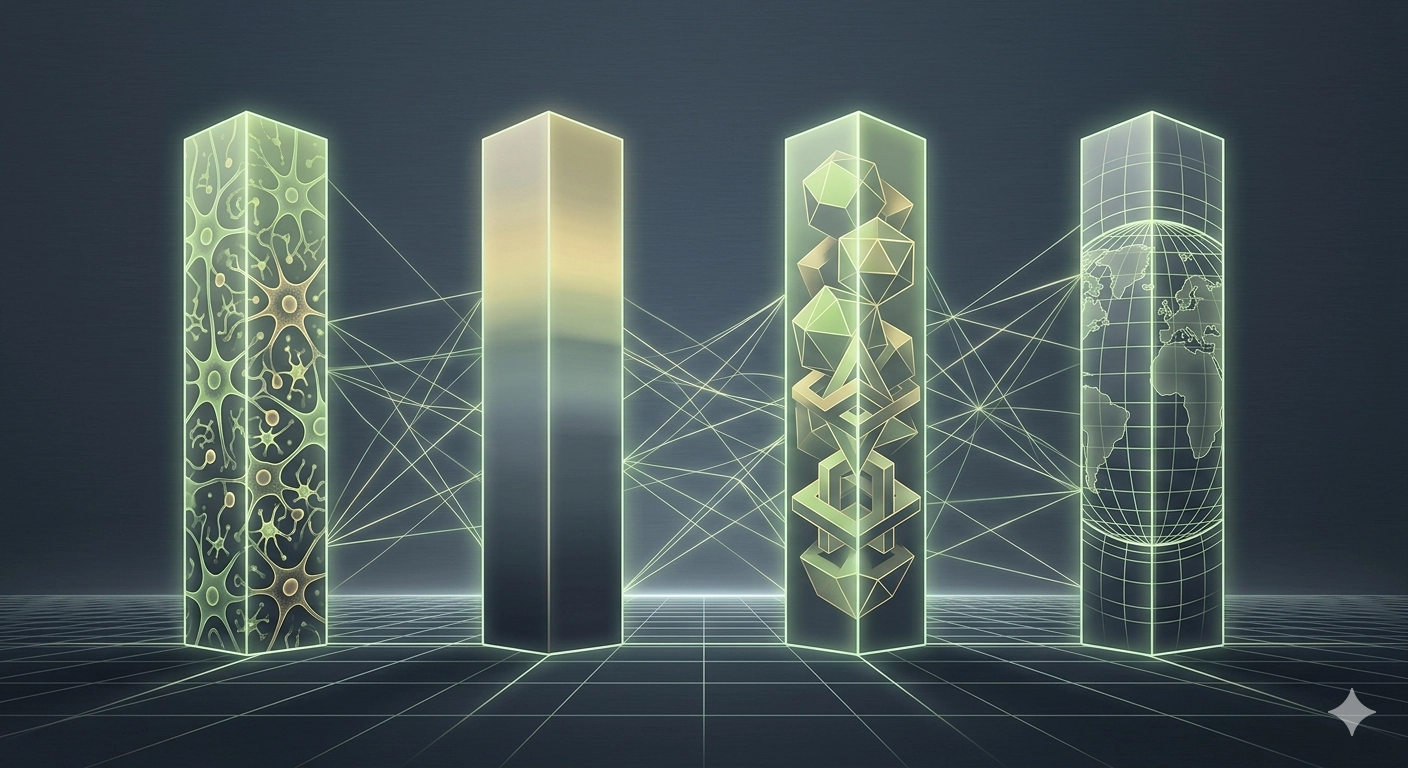
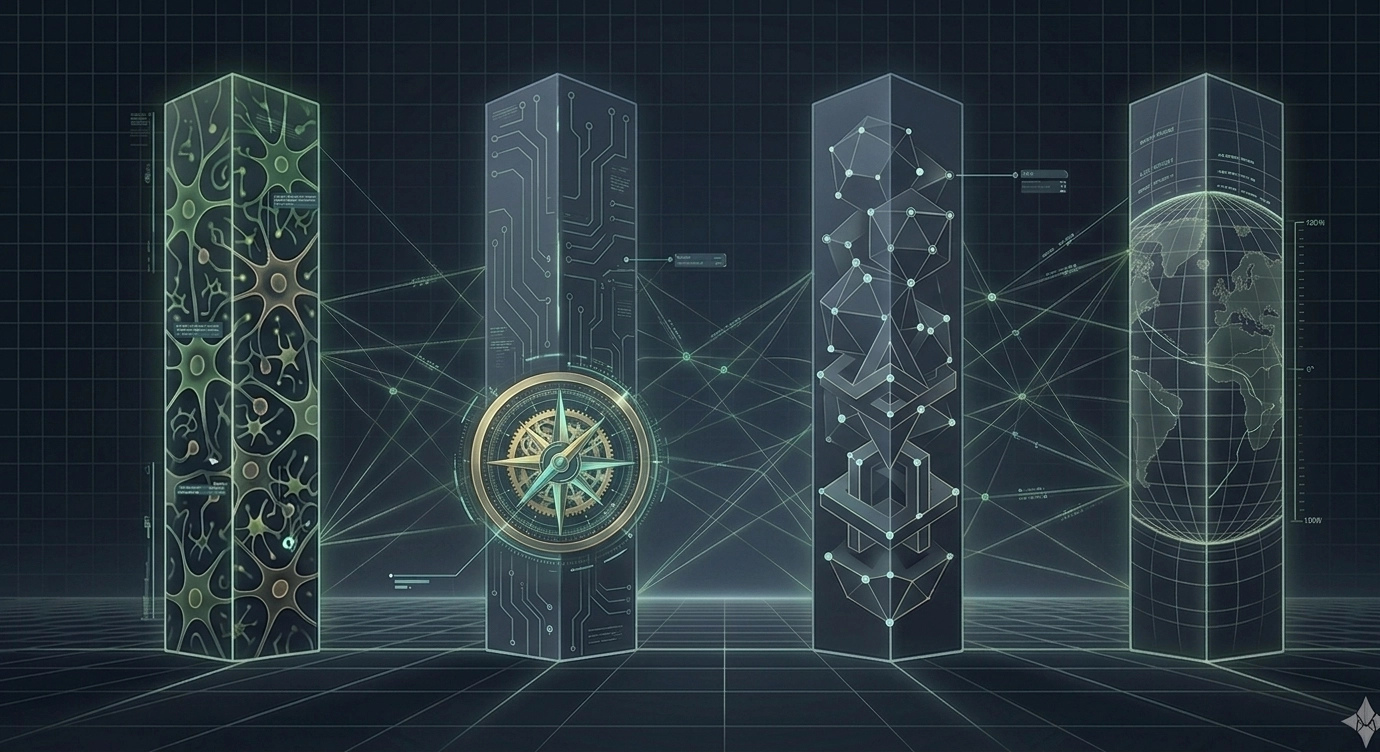
docs: create insight, and update existing one

diff --git a/src/data/blog/insights/master-of-gratefulness.md b/src/data/blog/insights/master-of-gratefulness.md
@@ -1,0 +1,86 @@
+---
+title: 'A Great Fullness: Discovering Grateful Living with Brother David'
+date: '2026-08-12'
+excerpt: 'Reflecting on the gentle wisdom of Benedictine monk Brother David Steindl-Rast and learning to practice gratefulness as a doorway to the gifts of the presence.'
+---
+
+![Abstract conceptual illustration of a calm, open landscape with gentle morning light, symbolizing presence, gratitude, and inner awakening](/blog/master-of-gratefulness.webp)
+
+&nbsp;
+
+Sometimes, life brings us into contact with certain teachers at the exact moment we are ready to receive them. **Brother David Steindl-Rast** showed me the orientation of the heart—the art of living in deep, quiet alignment with the present moment.
+
+&nbsp;
+
+#### Gratefulness — The Art of Being Surprised
+
+Brother David has "_surprised_" me twice in my life. The first time was in the spring of 2024. I have a personal rule that I only listen to podcast interviews if the title and the speaker resonate with me in that precise moment. As I was scrolling, a conversation with Brother David popped up on SRF:
+
+🔗 [100 Jahre David Steindl-Rast – Nur im aktuellen Augenblick kann man wirklich glücklich sein](https://www.srf.ch/kultur/gesellschaft-religion/100-jahre-david-steindl-rast-nur-im-aktuellen-augenblick-kann-man-wirklich-gluecklich-sein)
+
+Listening to him, I was immediately moved by his profound wisdom, reverence, and clarity. I felt an instant sense of gratitude, connection, and humility. What impressed me most was his deep humanity combined with a living, wise, and delightfully humorous presence.
+
+His perspective on living gratefully caused me to re-evaluate my own relationship with gratitude entirely. Years earlier, I had heard about the self-help habit of keeping "gratitude journals" or constantly saying "thank you". Some of my friends who were interested in coaching were almost obsessed with it. Yet, I could never quite connect with the way pop-psychology books framed it or the atmosphere around that community.
+
+Brother David’s understanding of gratitude was completely different. It wasn't transactional or superficial; it was an authentic posture towards life. And as someone who values **practice higher than theory**, I realized that the only secret is simply to practice it. Reading more books on the subject wouldn't help beyond a certain point—for me, the Kaizen approach of small, daily practice was far more important.
+
+&nbsp;
+
+#### Interreligious Wisdom and the Library
+
+The second time Brother David crossed my path was in the spring of 2026. Another interview appeared, introducing me to his pioneering work in interreligious dialogue.
+
+At the time, a debate had arisen within my circle of acquaintances about whether traditional Christianity could coexist with spiritual practices like Zen or Buddhism. Brother David’s open-hearted reflections offered me a clear, illuminating perspective—bridging traditions by looking beyond dogma to the shared essence of human experience.
+
+It was during this second discovery that I explored the official online library archive:
+
+🔗 [Bibliothek David Steindl-Rast](https://www.bibliothek-david-steindl-rast.ch/)
+
+Being able to speak multiple languages—and German in particular—has been a true gift, allowing me to engage deeply with his original, gentle, and meaningful thoughts. The archive proved to be a genuine treasure trove.
+
+&nbsp;
+
+#### The Essence of Grateful Living
+
+At the core of Brother David's teaching is a quiet distinction between _gratitude_ and _gratefulness_.
+
+Ordinary gratitude depends on receiving something specific; it rises and falls with external circumstances. Someone gives us a gift, we say thank you, and the feeling eventually fades. **Gratefulness**, however, does not wait for a specific reason. It is an ongoing awareness of the "gift-character" of existence itself—the recognition that every single moment is given. It is literally a state of **"great fullness"** that arises when we are awake to the present.
+
+&nbsp;
+
+> "Life is given to us; every moment is given. The only appropriate response therefore is gratefulness."
+> _(The Music of Silence by Brother David)_
+
+&nbsp;
+
+Crucially, Brother David reminds us that we cannot be grateful _for_ everything. No one expects us to be grateful for war, illness, or painful loss. But we can be grateful **in** every moment—because every moment offers an opportunity. Even in moments of suffering, there is an opportunity to learn, to grow, or to stand compassionately with others.
+
+&nbsp;
+
+To turn this philosophy into action, he offers a remarkably simple three-step practice:
+
+1. **Stop:** Pause long enough to notice the moment and break the momentum of reactivity.
+2. **Look:** Open your senses to perceive the unique opportunity this moment holds.
+3. **Go:** Act on that opportunity with presence and intention.
+
+For Brother David, spirituality isn't an abstract religious concept; it is **aliveness on all levels**. Rooted in the Latin _spiritus_ (meaning "breath" or "life"), spirituality is simply the degree to which we are truly awake and alive in the here and now.
+
+&nbsp;
+
+#### Recommended Resources
+
+For those who wish to explore Brother David’s gentle wisdom, here is a curated selection of talks and written archives:
+
+**_Recommended English Resources:_**
+
+- 🔗 [TED Talk: Want to be happy? Be grateful](https://www.ted.com/talks/david_steindl_rast_want_to_be_happy_be_grateful)
+- 🔗 [Grateful Living – Brother David's Official English Archive](https://grateful.org/brother-david/)
+- 🔗 [Sounds True Conversation: The Way of Silence](https://www.youtube.com/watch?v=_KZeRVUIxmA)
+- 🔗 [Interview: The Gift of the Present Moment](https://www.youtube.com/watch?v=mifql9hIyE8)
+
+**_Recommended German Resources:_**
+
+- 🔗 [Bibliothek David Steindl-Rast (Offizielles Archiv)](https://www.bibliothek-david-steindl-rast.ch/)
+- 🔗 [Sternstunde Philosophie: Dankbarkeit als Lebenshaltung](https://www.youtube.com/watch?v=3rLNALMh_yk)
+- 🔗 [Im Gespräch mit David Steindl-Rast](https://www.youtube.com/watch?v=WsfgdAxjbEg)
+- 🔗 [Bruder David Bot](https://www.bruderdavid.bot/de/)

diff --git a/src/data/blog/insights/four-pillars.md b/src/data/blog/insights/four-pillars.md
@@ -11,7 +11,7 @@ excerpt: 'Exploring the convergence of biology, discipline, management, and hist
 Software engineering is often viewed as a pursuit of pure logic—a world of syntax, compilers, and cloud architectures. But over years of working with complex systems, I’ve realized that the most important "operating systems" aren't running on servers; they are running within us, our teams, and the world we build for.
 
 Over the years, I've found that certain perspectives resonate with me, and I find myself returning to these thinkers' work again and again.  
-I see their insights aligning into four distinct 'channels' for my own growth—the **Machine**, the **Driver**, the **Team**, and the **Map**—each anchored by a voice I deeply respect:
+I see their insights aligning into four distinct 'channels' for my own growth—the **Machine**, the **Compass**, the **Team**, and the **Map**—each anchored by a voice I deeply respect:
 
 &nbsp;
 
@@ -24,12 +24,12 @@ Just as we analyze the architecture of a computer, we must understand the archit
 
 &nbsp;
 
-#### 2. The Driver: Shi Heng Yi
+#### 2. The Compass: Brother David Steindl-Rast
 
-If the body is the machine, the mind is the driver. [Shi Heng Yi](https://www.shihengyi.online/), a former leader of the Shaolin Temple Europe, emphasizes that true wisdom isn't found in a tutorial—it’s found in the **doing**. The message is constant: **practice** is the only way to mastery. It is about the **discipline** of the "**here and now**."
+While biology grounds our physical capabilities, our inner posture provides the direction. [Brother David Steindl-Rast](https://www.bibliothek-david-steindl-rast.ch/) teaches that true aliveness is found in gratefulness—a state of "great fullness" that comes from being fully awake to the present moment. Rather than relying on forced exertion, his framework centers on an active posture toward life through three simple steps: Stop, Look, Go.
 
 **_The Engineering Takeaway:_**  
-Theory is secondary to execution. The best code isn’t written by those who have read the most books, but by those who have developed the "mental muscle" through consistent, focused labor and presence in their work.
+Execution without presence leads to burnout, while theory without practice leads to stagnation. By pausing to observe clearly before acting, we turn problem-solving into a deliberate practice—treating every system challenge not as a mere disturbance, but as a given opportunity to learn and respond with clarity.
 
 &nbsp;
 
@@ -53,5 +53,5 @@ As we move into an era where algorithms and biotechnology write the new "stories
 
 &nbsp;
 
-> These four voices don't provide a perfect manual for the life—they offer a compass.  
-> By balancing the _machine_, the _mind_, the _team_, and the _map_, I’ve found a way to stay anchored, no matter how fast the technology around us changes.
+> These four voices don't provide a rigid manual for life—they offer a compass.
+> By balancing the _machine_ (biology), the _compass_ (presence), the _team_ (trust), and the _map_ (context), I’ve found a way to stay anchored, no matter how fast the technology around us changes.
